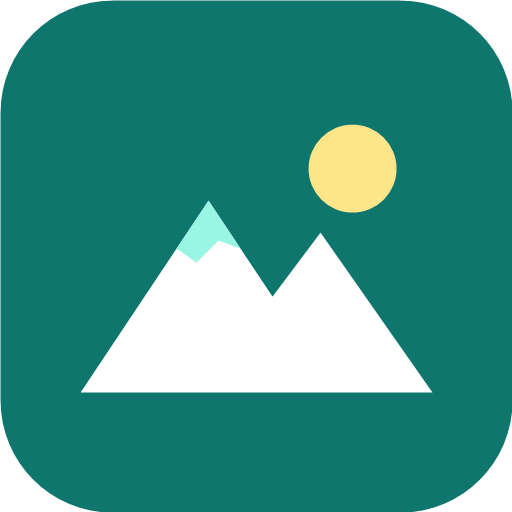
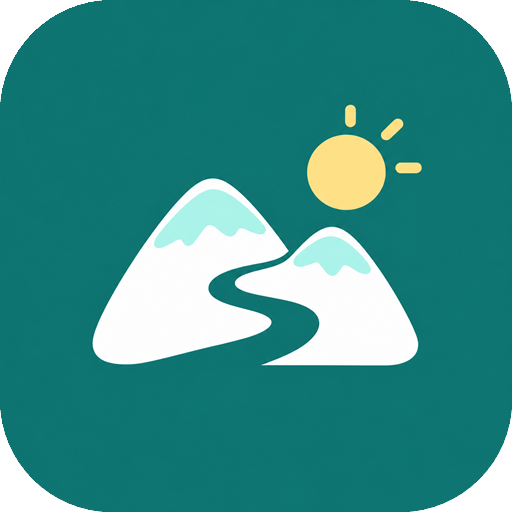
Add files via upload

diff --git a/index.html b/index.html
@@ -9,9 +9,22 @@
     <meta name="mobile-web-app-capable" content="yes" />
     <meta name="apple-mobile-web-app-status-bar-style" content="default" />
     <meta name="apple-mobile-web-app-title" content="My Trek" />
-    <link rel="icon" type="image/svg+xml" href="/favicon.svg" />
+    <link rel="icon" type="image/png" sizes="64x64" href="/favicon-64.png" />
     <link rel="apple-touch-icon" href="/apple-touch-icon.png" sizes="180x180" />
     <title>My Trek</title>
+
+    <!-- Ảnh + mô tả khi gửi link qua Zalo / Facebook / Messenger (cần URL tuyệt đối) -->
+    <meta property="og:type" content="website" />
+    <meta property="og:site_name" content="My Trek" />
+    <meta property="og:title" content="My Trek – Quản lý chuyến du lịch cùng nhóm bạn" />
+    <meta property="og:description" content="Lịch trình theo ngày, chi tiêu đa tiền tệ, chia tiền tự động, checklist và bản đồ." />
+    <meta property="og:url" content="https://ducminhtran.github.io/MY-TREK/" />
+    <meta property="og:image" content="https://ducminhtran.github.io/MY-TREK/og-image.jpg" />
+    <meta property="og:image:type" content="image/jpeg" />
+    <meta property="og:image:width" content="1200" />
+    <meta property="og:image:height" content="630" />
+    <meta property="og:locale" content="vi_VN" />
+    <meta name="twitter:card" content="summary_large_image" />
   </head>
   <body>
     <div id="root"></div>

diff --git a/vite.config.ts b/vite.config.ts
@@ -30,7 +30,7 @@ export default defineConfig({
     tailwindcss(),
     VitePWA({
       registerType: 'autoUpdate',
-      includeAssets: ['favicon.svg', 'apple-touch-icon.png'],
+      includeAssets: ['favicon-64.png', 'apple-touch-icon.png'],
       manifest: {
         name: 'My Trek',
         short_name: 'My Trek',
@@ -49,6 +49,9 @@ export default defineConfig({
       },
       workbox: {
         navigateFallback: 'index.html',
+        // Cache sẵn ảnh minh họa để xem được khi offline; og-image chỉ dùng khi chia sẻ link
+        globPatterns: ['**/*.{js,css,html,png,svg,webp}'],
+        globIgnores: ['og-image.jpg'],
         runtimeCaching: [
           {
             // PWA-02: dữ liệu Supabase – ưu tiên mạng, offline thì dùng bản đã cache

diff --git a/PROGRESS.md b/PROGRESS.md
@@ -149,6 +149,19 @@
 |Rà soát responsive|Rà mã|Bảng cân đối cuộn ngang trên mobile; tab chuyến đi cuộn ngang; form dạng bottom sheet; vùng chạm ≥ 44px. **Chưa kiểm tra trên thiết bị thật** – thuộc UAT|
 |Bundle < 300 KB gzip|Chưa đo|Không có Node cục bộ; xem log bước Build trên Actions (dòng `dist/assets/index-*.js … gzip:`)|
 
+> 28/11/2026: người dùng báo **chưa phát hiện lỗi** trên bản deploy; lỗi phát sinh sẽ báo sau.
+
+## Hình ảnh (28/11/2026)
+
+|Hạng mục|Ghi chú|
+|-|-|
+|Nguồn|ChatGPT tạo: `assets-src/sprite-sheet.png` (8 hình, nền trong suốt) + `assets-src/app-icon.png` (1254×1254). Tách tự động bằng `assets-src/SpriteTool.cs` (C# qua PowerShell, System.Drawing)|
+|Icon|`pwa-192/512` (bo góc 21,9%), `pwa-maskable-512`, `apple-touch-icon` (180), `favicon-64`. Header dùng `pwa-192.png` thay cho SVG vẽ tay|
+|Minh họa|`public/illustrations/`: empty-trips, empty-expenses, empty-checklist, empty-files, email-sent, not-found, auth-hero. `EmptyState` có prop `image`|
+|og-image|`public/og-image.jpg` 1200×630 (~70 KB), chèn chữ "My Trek" bằng code; thẻ `og:*` trong `index.html` (URL tuyệt đối theo repo MY-TREK)|
+|PWA cache|Workbox precache thêm `png/svg/webp` (bỏ og-image) để ảnh minh họa xem được offline|
+|Đã xóa|`public/favicon.svg`, `scripts/generate-icons.ps1` (thiết kế cũ)|
+
 ## Definition of Done (mục 15)
 
 |Tiêu chí|Trạng thái|
